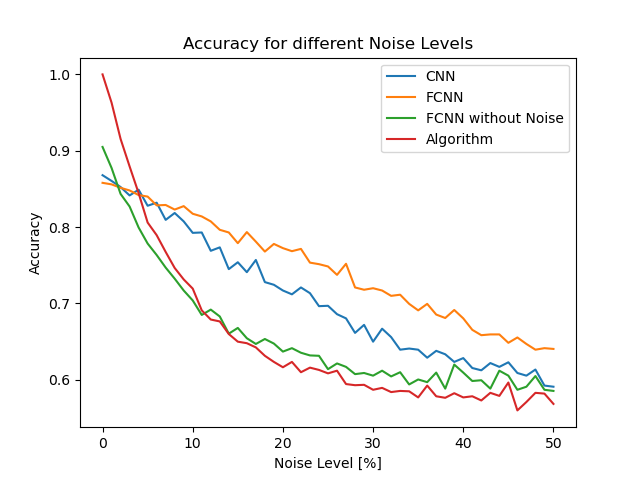
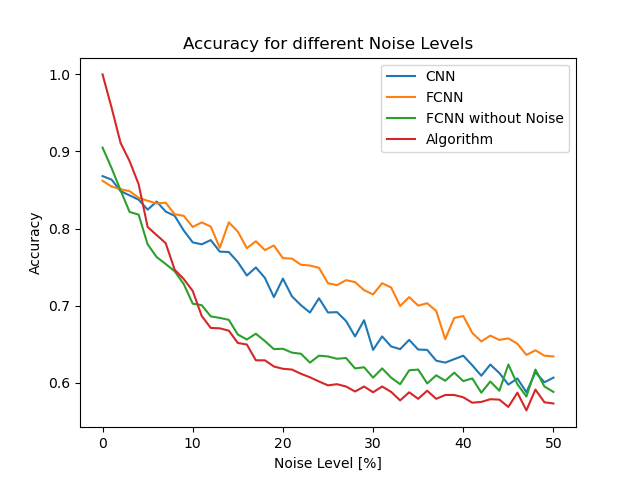
noised data

diff --git a/netz/eval_netz.py b/netz/eval_netz.py
@@ -6,68 +6,71 @@ import matplotlib.pyplot as plt
 import torch
 from torch.autograd import Variable 
 
-netz = torch.load('saved_netz.py')
-netzfc = torch.load('saved_fc_netz.py')
-netzwon = torch.load('saved_fc_netz_won.py')
+#netz = torch.load('saved_netz.py')
+#netzfc = torch.load('saved_fc_netz.py')
+#netzwon = torch.load('saved_fc_netz_won.py')
+netzfc = torch.load('saved_netz_join.py')
 
-netz = netz.cpu()
+#netz = netz.cpu()
 netzfc = netzfc.cpu() 
-netzwon = netzwon.cpu()
+#netzwon = netzwon.cpu()
 
 def test_var_noise():
-  netz.eval()
+  #netz.eval()
   netzfc.eval()
-  hits = 0
+  #hits = 0
   hits_fc = 0
-  hits_won = 0
-  hits_algo = 0
+  #hits_won = 0
+  #hits_algo = 0
   for input, target in testing_data:
     input = torch.tensor(noise_matrix(np.array(input[0]), a, b))
-    algo_erg = check_inf_sites(np.array(input))
-    if (algo_erg == int(target[0])): hits_algo += 1
-    expanded_input = torch.unsqueeze(input, 0)
-    expanded_input = expanded_input.repeat(1,1,1,1)
-    expanded_input = expanded_input.transpose(0, 1)
-    expanded_input = Variable(expanded_input)
-    output = netz(expanded_input)
+    #algo_erg = check_inf_sites(np.array(input))
+    #if (algo_erg == int(target[0])): hits_algo += 1
+    #expanded_input = torch.unsqueeze(input, 0)
+    #expanded_input = expanded_input.repeat(1,1,1,1)
+    #expanded_input = expanded_input.transpose(0, 1)
+    #expanded_input = Variable(expanded_input)
+    #output = netz(expanded_input)
     output_fc = netzfc(input)
-    output_won = netzwon(input)
+    #output_won = netzwon(input)
     target = Variable(target)
-    if(torch.round(output) == target): hits += 1
+    #if(torch.round(output) == target): hits += 1
     if(torch.round(output_fc) == target): hits_fc += 1
-    if(torch.round(output_won) == target): hits_won += 1
-  return (hits/len(testing_data)), (hits_fc/len(testing_data)), (hits_won/len(testing_data)), (hits_algo/len(testing_data))
+    #if(torch.round(output_won) == target): hits_won += 1
+  #return (hits/len(testing_data)), (hits_fc/len(testing_data)), (hits_won/len(testing_data)), (hits_algo/len(testing_data))
+  return (hits_fc/len(testing_data))
 
-acc = []
+#acc = []
 acc_fc = []
-acc_won = []
-acc_algo = []
+#acc_won = []
+#acc_algo = []
 noise = []
 
 b = 0
 
-testing_data = get_train_dataset("../data/test_fin_sorted.txt", "../data/test_inf_sorted.txt", 1)
+testing_data = get_train_dataset("../data/test_join.txt", "../data/test_inf.txt", 1)
 while (b < 0.51):
   print(b)
   if(b == 0): a = 0
   else: a = 10**(-5)
-  net, fc, won, algo = test_var_noise()
-  acc.append(net)
+  #net, fc, won, algo = test_var_noise()
+  fc = test_var_noise()
+  #acc.append(net)
   acc_fc.append(fc)
-  acc_won.append(won)
-  acc_algo.append(algo)
+  #acc_won.append(won)
+  #acc_algo.append(algo)
   noise.append(b*100)
   b += 0.01
 
 
-plt.plot(noise, acc, label = "CNN")
+#plt.plot(noise, acc, label = "CNN")
 plt.plot(noise, acc_fc, label = "FCNN")
-plt.plot(noise, acc_won, label = "FCNN without Noise")
-plt.plot(noise, acc_algo, label = "Algorithm")
+#plt.plot(noise, acc_won, label = "FCNN without Noise")
+#plt.plot(noise, acc_algo, label = "Algorithm")
 plt.ylabel('Accuracy')
 plt.xlabel('Noise Level [%]')
 plt.title('Accuracy for different Noise Levels')
 plt.legend()
-plt.savefig('../results/Accuracy_Noise.png')
+plt.savefig('../results/Accuracy_Noise_Join.png')
 plt.show()
 

diff --git a/netz/train_fc_netz.py b/netz/train_fc_netz.py
@@ -5,8 +5,8 @@ import torch.optim as optim
 import matplotlib.pyplot as plt
 
   
-training_data = get_train_dataset("../data/train_join_noise.txt", "../data/train_inf_noise.txt", 256)
-testing_data = get_train_dataset("../data/test_join_noise_15.txt", "../data/test_inf_noise_15.txt", 10)
+training_data = get_train_dataset("../data/train_fin_noise_sorted.txt", "../data/train_inf_noise_sorted.txt", 256)
+testing_data = get_train_dataset("../data/test_fin_noise_15_sorted.txt", "../data/test_inf_noise_15_sorted.txt", 10)
 
 netz = FC_Netz()
 
@@ -28,7 +28,7 @@ for epoch in range(100):
   test_acc.append(te_acc)
   test_loss.append(te_loss)
 
-torch.save(netz, 'saved_netz_join.py')
+torch.save(netz, 'saved_fc_netz.py')
 
 plt.plot(train_acc, label = "Training Accuracy")
 plt.plot(test_acc, label = "Testing Accuracy")
@@ -37,5 +37,5 @@ plt.plot(test_loss, label = "Testing Loss")
 plt.xlabel('Epoch')
 plt.title('Learning Curves')
 plt.legend()
-plt.savefig('../results/Learning_Curves_Join.png')
+plt.savefig('../results/Learning_Curves.png')
 plt.show()
